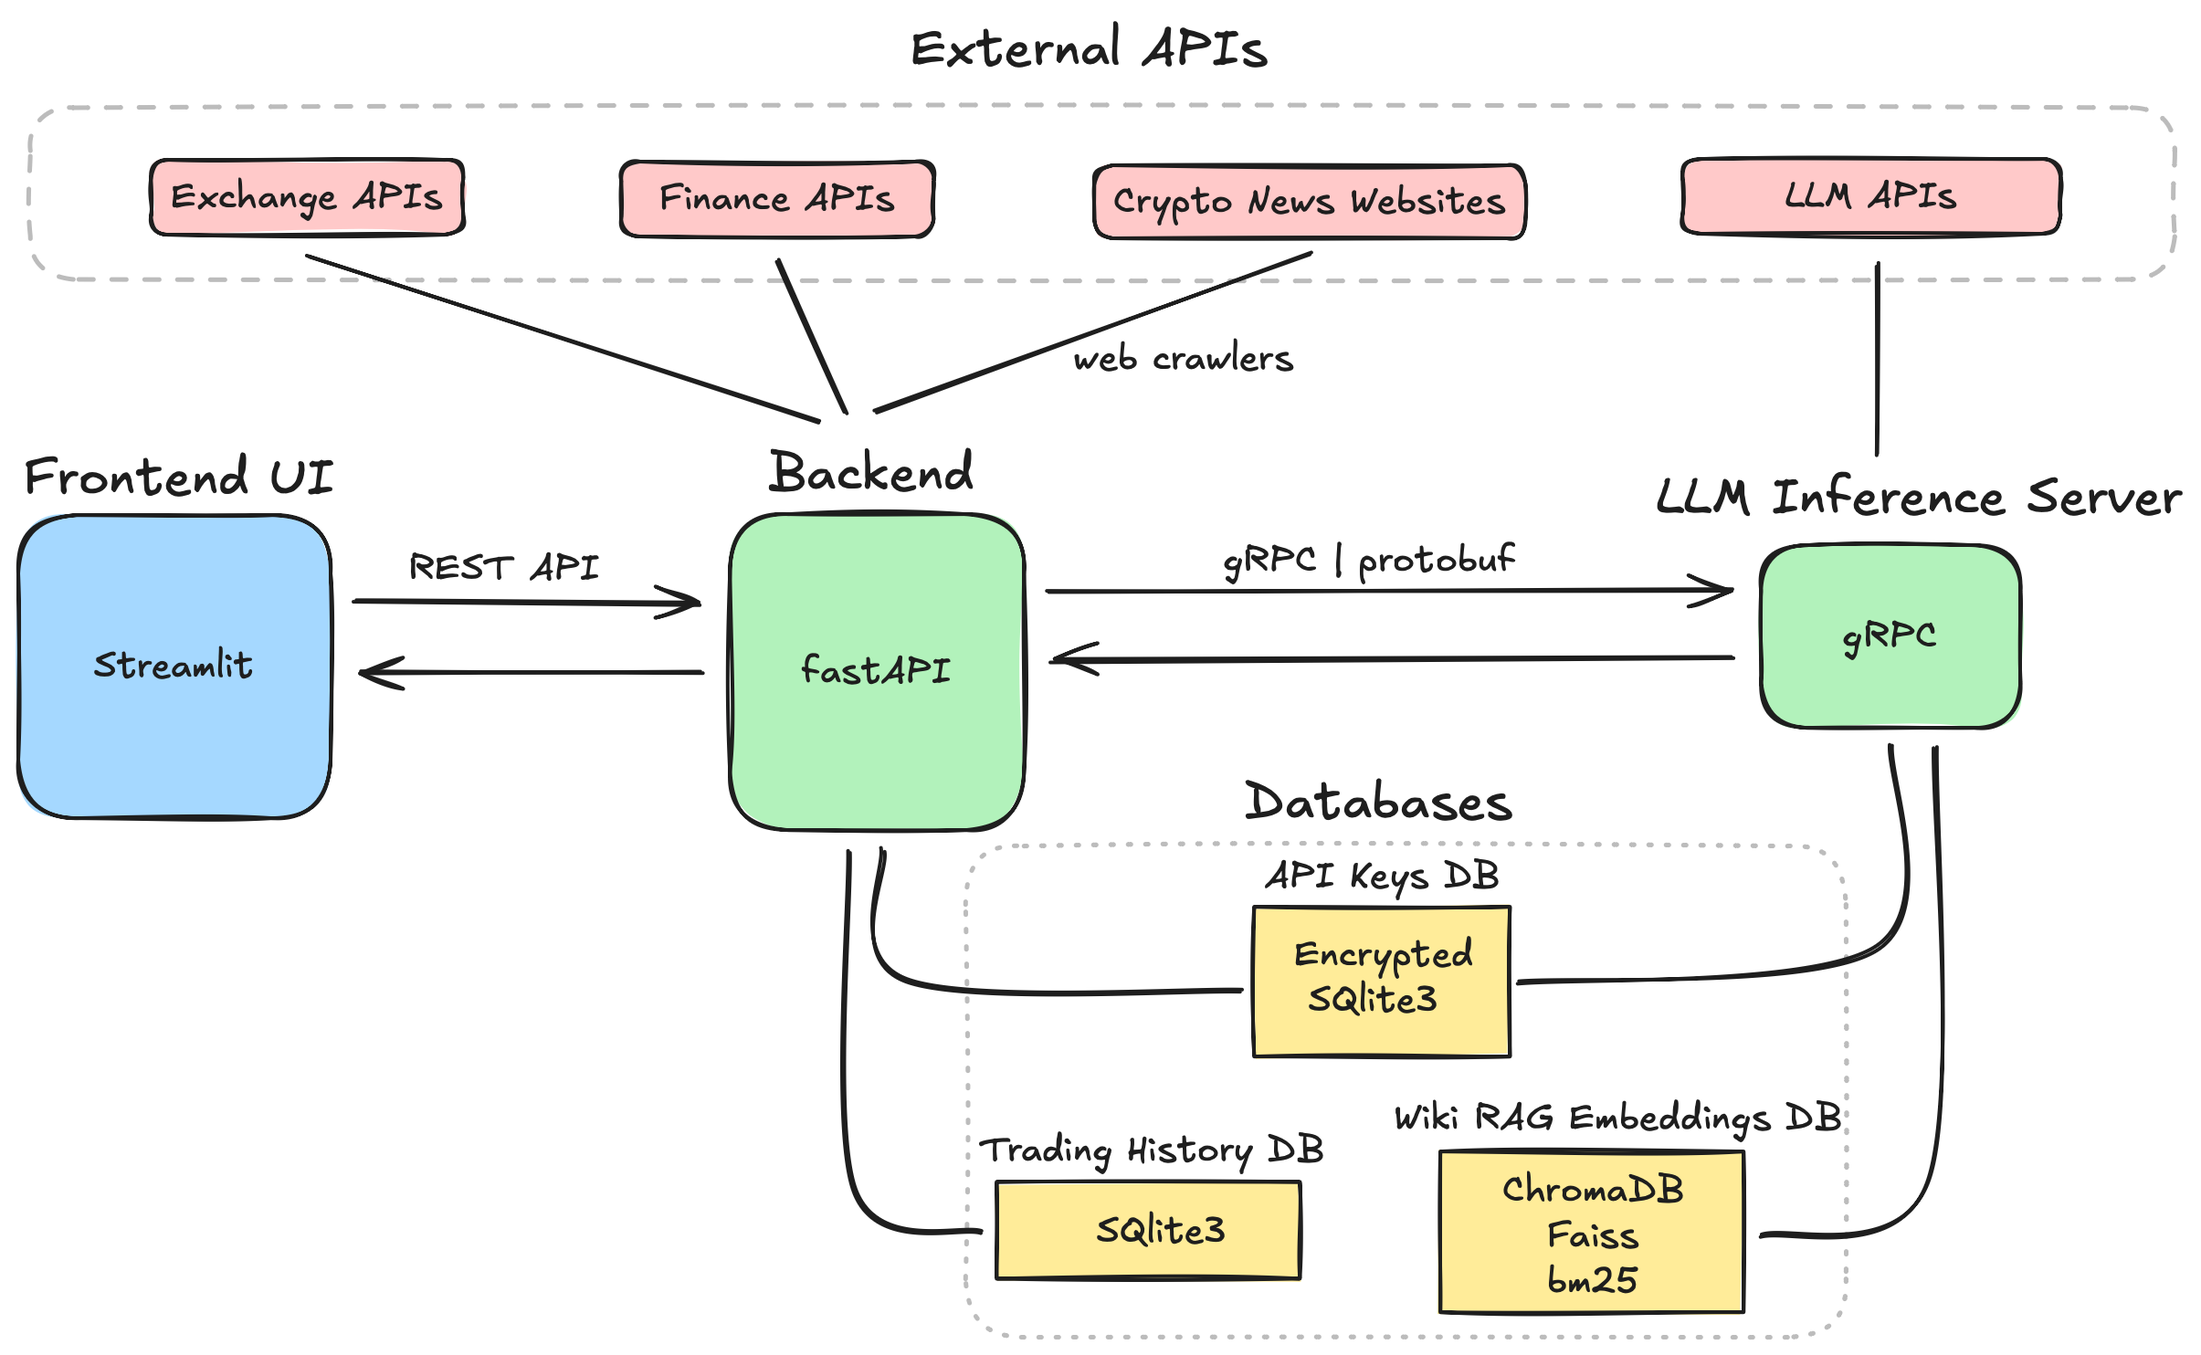
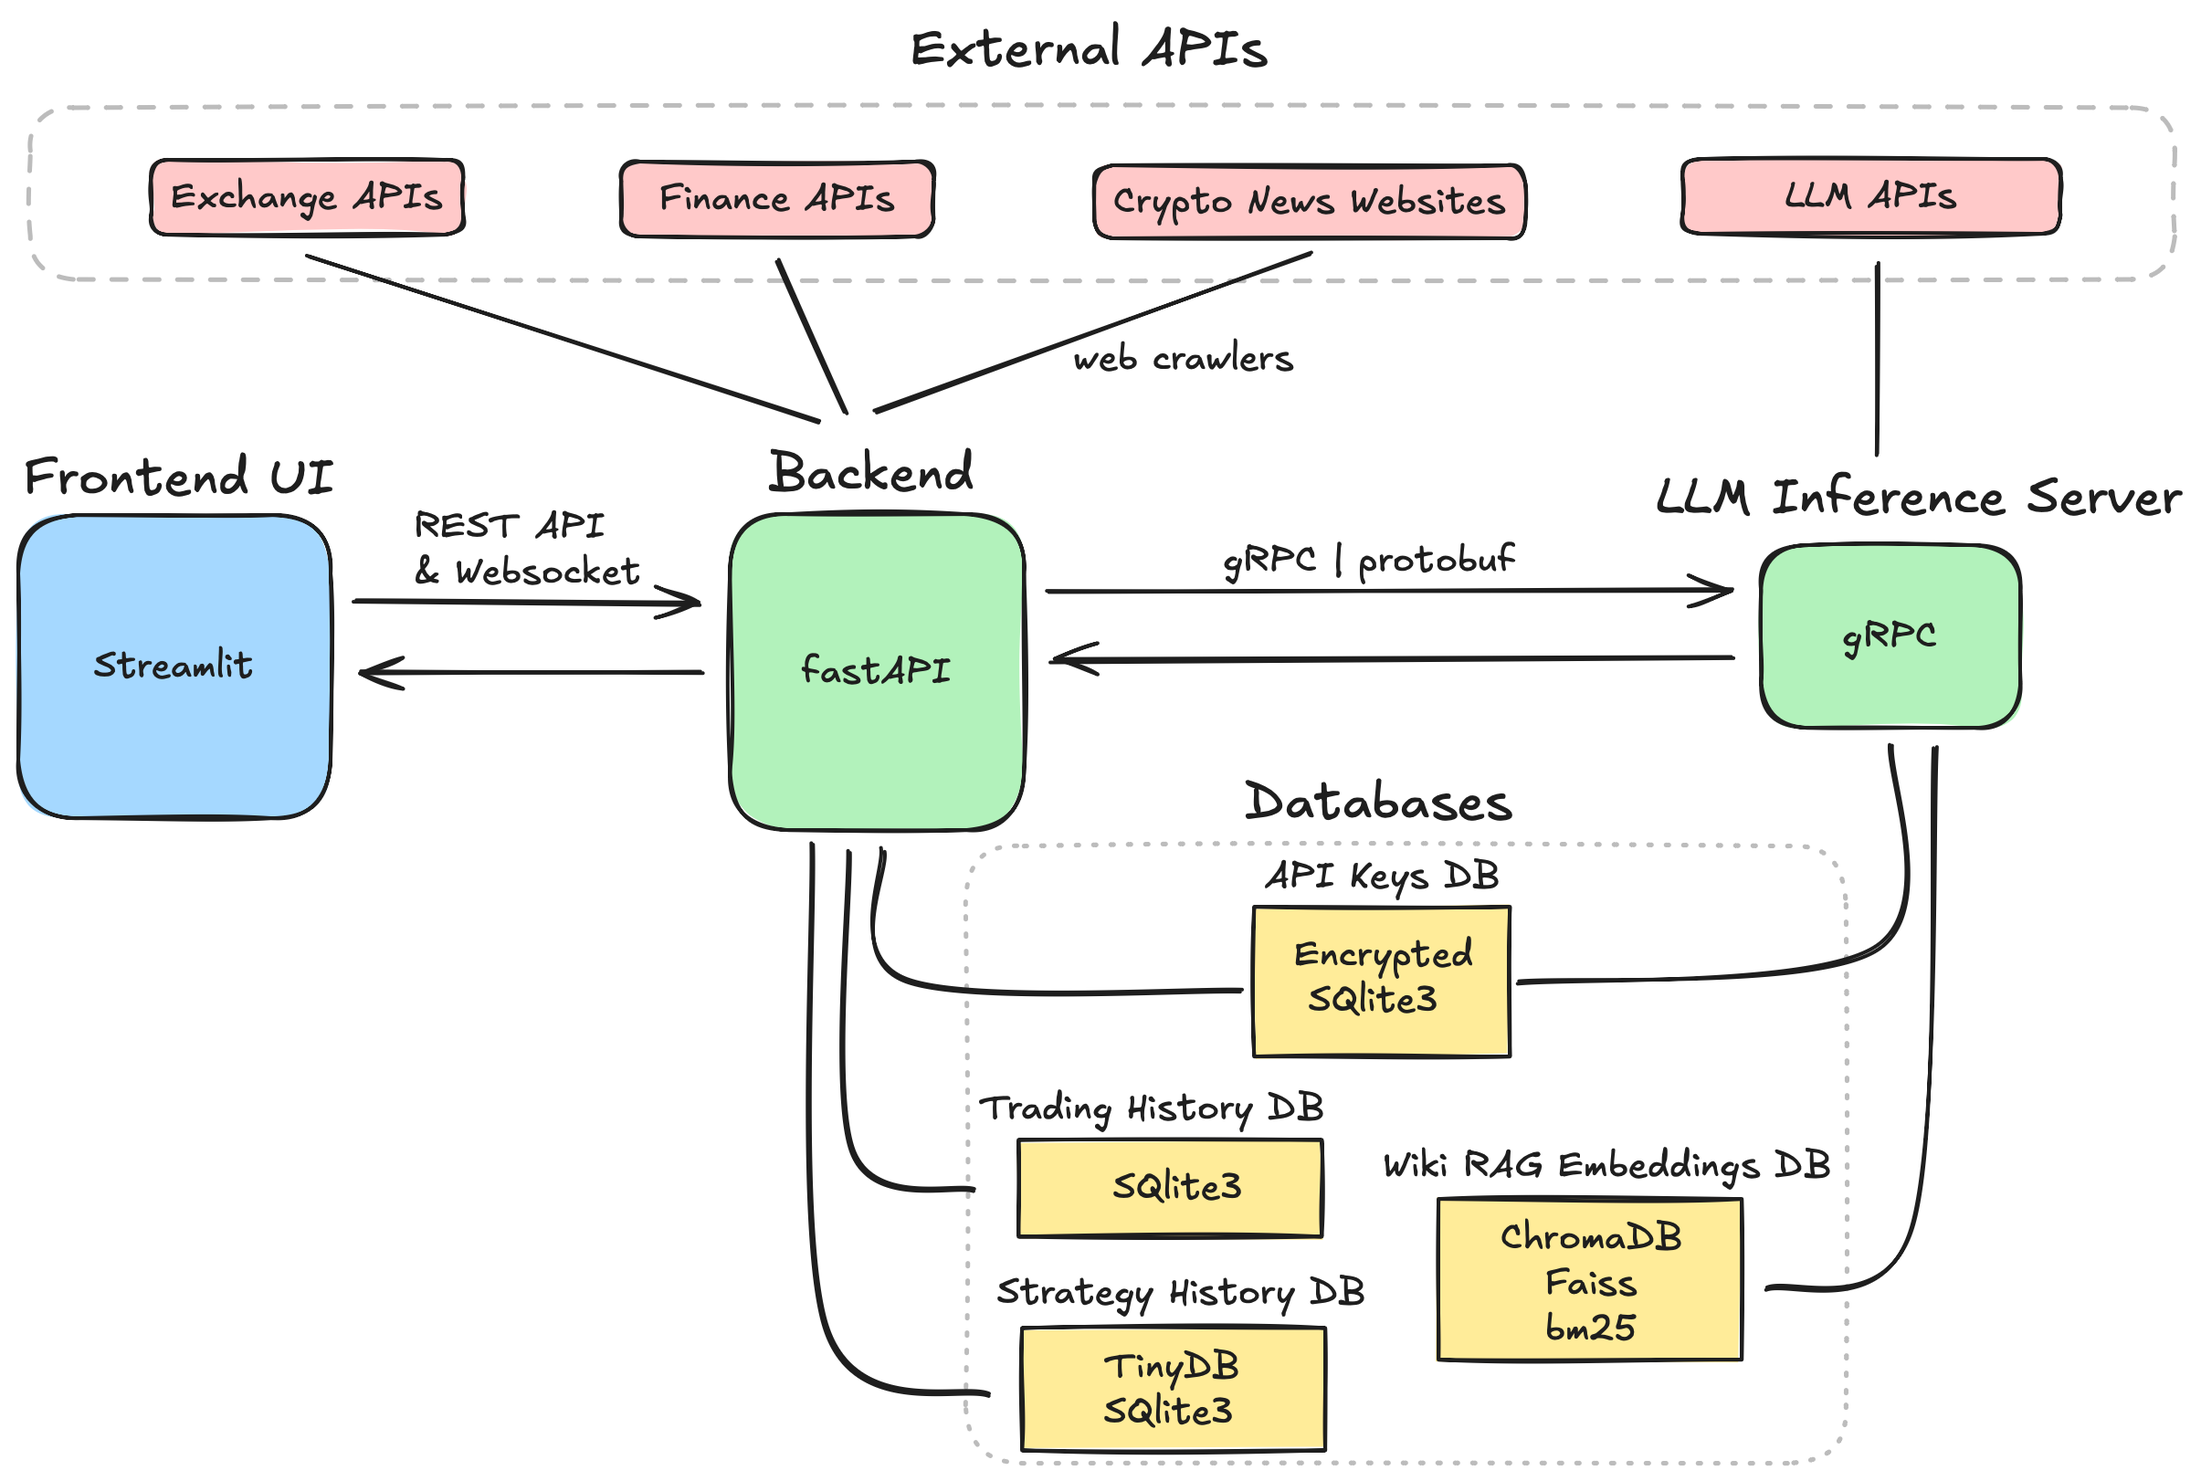
strategy updates, TBD messages [v0.44.40]

diff --git a/frontend/tab_pages/strategy_console.py b/frontend/tab_pages/strategy_console.py
@@ -5,60 +5,87 @@ from frontend.src.library.ui_elements import col_style2
 import pandas as pd
 import matplotlib.pyplot as plt
 import matplotlib.dates as mdates
+from frontend.src.library.strategy_helper.console_helper import real_time_strategy_plot
 
 
 fix_page_layout('strategy monitor')
 set_page_title("Strategy Monitor")
 # st.html(col_style2)
 
+html_content = """
+<div style="text-align: center; color: red; font-weight: bold; font-size: 24px;">
+    <br>
+    UNDER DEVELOPMENT.
+    <br>
+</div>
+"""
+st.html(html_content)
+
 
 strategies = get_strategy_metadata("all")
 if strategies:
 
-    df = pd.DataFrame(strategies)
-    df['created_at'] = pd.to_datetime(df['created_at'], unit='ms')
-    st.dataframe(df, use_container_width=True, hide_index=True)
-
     st.button("Pause Strategy", type="secondary", icon=":material/pause_circle:", disabled=True)
     st.button("Stop Strategy", type="primary", icon=":material/cancel:")
 
-    logs = get_strategy_logs("strategy")
-    logs_df = pd.DataFrame(logs)
-    logs_df['timestamp'] = pd.to_datetime(logs_df['timestamp'], unit='ms')
-    st.dataframe(logs_df, use_container_width=True, hide_index=True)
+    df = pd.DataFrame(strategies)
+    df['created_at'] = pd.to_datetime(df['created_at'], unit='ms')
+
+    df['monitor'] = False
+    df.insert(0, 'monitor', df.pop('monitor'))
+    st.caption("Use the ***search bar*** on the top right of the table to search for specific **keywords**")
+    edited_df = st.data_editor(df, use_container_width=True, hide_index=True, num_rows='fixed')
+    st.info("💡 The **DateTime** above refers to the **UTC** timestamp. So times may be different from your local time.")
+    df_to_show = edited_df.loc[edited_df["monitor"] == True].copy().reset_index(drop=True)
 
 
-    # Plotting
-    fig, ax = plt.subplots(figsize=(10, 6))
+    # st.dataframe(df, use_container_width=True, hide_index=True)
 
-    # Plot the price as a line
-    ax.plot(logs_df['timestamp'], logs_df['price'], label='Price', color='blue')
 
-    # Add markers for BUY and SELL actions
-    for i, row in logs_df.iterrows():
-        if row['order'] == 'BUY':
-            ax.plot(row['timestamp'], row['price'], marker='o', markersize=10, color='green', label='BUY' if i == 0 else "")
-        elif row['order'] == 'SELL':
-            ax.plot(row['timestamp'], row['price'], marker='o', markersize=10, color='red', label='SELL' if i == 0 else "")
+    if df_to_show.shape[0] > 0:
+        st.write(df_to_show["strategy_id"].iloc[0])
+        logs = get_strategy_logs(df_to_show["strategy_id"].iloc[0])
+        logs_df = pd.DataFrame(logs)
+        st.write(logs_df)
+        logs_df['timestamp'] = pd.to_datetime(logs_df['timestamp'], unit='ms')
+        st.dataframe(logs_df, use_container_width=True, hide_index=True)
 
-    # Set labels and title
-    ax.set_xlabel('Timestamp')
-    ax.set_ylabel('Price')
-    ax.set_title('Price vs Timestamp with BUY/SELL orders')
 
-    # Format the x-axis with date
-    ax.xaxis.set_major_locator(mdates.HourLocator(interval=1))
-    ax.xaxis.set_major_formatter(mdates.DateFormatter('%H:%M'))
+        # Plotting
+        fig, ax = plt.subplots(figsize=(10, 6))
 
-    # Rotate x labels for better readability
-    plt.xticks(rotation=45)
+        # Plot the price as a line
+        ax.plot(logs_df['timestamp'], logs_df['price'], label='Price', color='blue')
 
-    # Show legend
-    ax.legend()
+        # Add markers for BUY and SELL actions
+        for i, row in logs_df.iterrows():
+            if row['order'] == 'BUY':
+                ax.plot(row['timestamp'], row['price'], marker='o', markersize=10, color='green', label='BUY' if i == 0 else "")
+            elif row['order'] == 'SELL':
+                ax.plot(row['timestamp'], row['price'], marker='o', markersize=10, color='red', label='SELL' if i == 0 else "")
 
-    # Show the plot in Streamlit
-    st.pyplot(fig)
+        # Set labels and title
+        ax.set_xlabel('Timestamp')
+        ax.set_ylabel('Price')
+        ax.set_title('Price vs Timestamp with BUY/SELL orders')
 
+        # Format the x-axis with date
+        ax.xaxis.set_major_locator(mdates.HourLocator(interval=1))
+        ax.xaxis.set_major_formatter(mdates.DateFormatter('%H:%M'))
+
+        # Rotate x labels for better readability
+        plt.xticks(rotation=45)
+
+        # Show legend
+        ax.legend()
+
+        # Show the plot in Streamlit
+        st.pyplot(fig)
+
+
+    real_time_option = st.toggle("Real Time Monitor", value=False)
+    if real_time_option:
+        real_time_strategy_plot()
 
 else:
     html_content = """

diff --git a/backend/src/broker/tactician/tactician_base.py b/backend/src/broker/tactician/tactician_base.py
@@ -145,15 +145,23 @@ class Tactician:
         Calls the Exchange API to get the latest price data. It fetches :limit: prices on call and initiates the dataset.
         Typically called before starting the strategy loop.
 
+        In case of 6s interval: Most exchanges do not support a 15s interval. Therefore in order to initiate the dataset, the 1s API is used and the data are sampled.
         Args:
             limit (int): The number of prices to fetch.
             interval (str): The klines interval.
         """
-        # Convert to DataFrame
-        data = self.exchange.get_price_history(self.symbol, interval=interval, limit=limit)
-        df = pd.DataFrame(data)
-        df.rename(columns={"open_time": "timestamp", "close_price": "price"}, inplace=True)
-        self.dataset = df
+        # There is no 15s interval in exchange APIs, there
+        if interval == "6s":
+            data = self.exchange.get_price_history(self.symbol, interval="1s", limit=1200)
+            df = pd.DataFrame(data)
+            df.rename(columns={"open_time": "timestamp", "close_price": "price"}, inplace=True)
+            df = df.iloc[::6].reset_index(drop=True)
+            self.dataset = df
+        else:
+            data = self.exchange.get_price_history(self.symbol, interval=interval, limit=limit)
+            df = pd.DataFrame(data)
+            df.rename(columns={"open_time": "timestamp", "close_price": "price"}, inplace=True)
+            self.dataset = df
 
 
     def update_dataset(self) -> None:
@@ -200,23 +208,24 @@ class Tactician:
             time.sleep(interval)  # Wait before checking again
 
 
-    def run_strategy(self, strategy: BaseStrategy, interval: str, min_capital: float, trades_limit: int) -> None:
+    def run_strategy(self, strategy_id: str, strategy: BaseStrategy, interval: str, min_capital: float, trades_limit: int) -> None:
         """
         Initiates the trading loop.
 
         Args:
+            strategy_id (str): The id of the strategy to run.
             strategy (TradingStrategy): The strategy that generates trade signals.
             interval (int): Time interval (in seconds) between checking for new signals. Default is 5.
             min_capital (float): The minimum capital threshold for running the strategy. If capital goes below this, the strategy will stop. Default is 0.
             trades_limit (int): Number of trades to execute before stopping. Must be even to end with a SELL.
         """
-        time_interval_dict = {'1s': 1, '1m': 60, '5m': 300, '15m': 900,
+        time_interval_dict = {'1s': 1, '6s': 6, '1m': 60, '5m': 300, '15m': 900,
                          '30m': 1800, '1h': 3600, '4h': 14400, '12h': 43200, '1d': 86400}
 
 
-        self.db_client.add_strategy("strategy", self.symbol, self.capital, interval, trades_limit, strategy.name, int(time.time()*1000))
+        self.db_client.add_strategy(strategy_id, self.symbol, self.capital, interval, trades_limit, strategy.name, int(time.time()*1000))
 
-        print("Tactician :: Initiating Strategy loop.")
+        print(f"Tactician :: Initiating Strategy loop with id {strategy_id}.")
         self.initiate_dataset(interval, 200)
         self.thread = threading.Thread(target=self.strategy_loop, daemon=True, args=(strategy, time_interval_dict[interval], min_capital, trades_limit))
         self.thread.start()

diff --git a/frontend/tab_pages/strategy.py b/frontend/tab_pages/strategy.py
@@ -6,11 +6,11 @@ from frontend.src.library.strategy_helper.funcs import get_strategy_instructions
 from frontend.src.library.ui_elements import col_style2
 from frontend.src.library.analytics_helper.client import fetch_available_assets
 from frontend.src.library.strategy_helper.client import post_strategy
-import pandas as pd
+import time
 
 
 fix_page_layout('strategy')
-set_page_title("Trading Strategy")
+set_page_title("Trading Strategy Launcher")
 st.html(col_style2)
 
 st.caption("Click the button below 👇👇 to get information on the available strategies.")
@@ -25,10 +25,6 @@ if st.session_state["available_exchange_apis"]:
     exchange = st.selectbox('Choose Exchange', options=st.session_state["available_exchange_apis"])
     st.divider()
     with st.container(border=False):
-
-        # with st.spinner(f"Fetching available {exchange} asset pairs..."):
-        #     asset_list = fetch_available_assets(st.session_state['trade_exchange_api'], quote_asset="all")
-
 
         # show available balance
         c0 = st.columns(1)
@@ -120,13 +116,24 @@ if st.session_state["available_exchange_apis"]:
             st.warning("No **strategy algorithm** provided.", icon=":material/warning:")
             valid_request_flag = False
 
-        backtesting_button = st.button("Run Backtesting", type="primary", icon=":material/query_stats:", disabled=True)
+        # placeholder = st.empty() # TODO - examine here to remove buttons.
+
+        backtesting_button = st.button("Run Backtesting", key="backtesting_button", type="primary", icon=":material/query_stats:", disabled=True)
         # if backtesting_button:
         # post_strategy(exchange, quote_asset, quote_amount, base_asset, time_interval, algorithm, trades_num, strategy_params_dict, True)
 
         if valid_request_flag:
-            if st.button("Initiate Strategy", type="primary", icon=":material/send:"):
-                post_strategy(exchange, quote_asset, quote_amount, base_asset, time_interval, algorithm, trades_num, strategy_params_dict)
+            if st.button("Initiate Strategy", key="deploy_strategy_button", type="primary", icon=":material/rocket_launch:"):
+                with st.spinner("Deploying Strategy"):
+                    res = post_strategy(exchange, quote_asset, quote_amount, base_asset, time_interval, algorithm, trades_num, strategy_params_dict)
+                if res is not None:
+                    st.success("Strategy has been successfully deployed.", icon=":material/rocket_launch:")
+                    st.toast("Strategy has been successfully deployed.", icon="🚀")
+                    st.link_button("Navigate to the **Strategy Console** to view the progress", "http://localhost:8501/strategy_console", icon=":material/browse_activity:")
+                else:
+                    st.error("Failed to deploy strategy. See logs for error.", icon=":material/report:")
+
+
         else:
             st.button("Initiate Strategy", type="primary", icon=":material/send:", disabled=True)
 

diff --git a/backend/src/broker/endpoint.py b/backend/src/broker/endpoint.py
@@ -8,7 +8,7 @@ from backend.src.broker.strategies.strategy_factory import StrategyFactory
 from backend.src.broker.tactician.tactician_base import Tactician
 from database.strategy.strategy_db_client import StrategyDBClient
 from backend.src.broker.tactician.strategy_runtime_manager import StrategyRuntimeHandler
-
+import time
 
 router = APIRouter(
     prefix="/broker",
@@ -132,13 +132,14 @@ def run_strategy(strategy_params: StrategyParams) -> Dict[str, Any]:
         strategy = StrategyFactory.get_strategy(strategy_params.strategy, strategy_params.params)
 
         # Instantiate the Tactician
+        strategy_id = f"strategy_{int(time.time())}"
         symbol = f"{strategy_params.base_asset}{strategy_params.quote_asset}"
         tactician = Tactician(exchange=client, symbol=symbol, capital_allocation=strategy_params.quote_amount)
         # Run the strategy with a n-second interval and stop if capital is less than min_capital
-        tactician.run_strategy(strategy, interval=strategy_params.time_interval, min_capital=0.0, trades_limit=strategy_params.num_trades)
+        tactician.run_strategy(strategy_id, strategy, interval=strategy_params.time_interval, min_capital=0.0, trades_limit=strategy_params.num_trades)
 
-        strategy_runtime_handler.add_strategy("strategy", tactician)
-        return {}
+        strategy_runtime_handler.add_strategy(strategy_id, tactician)
+        return {"status": "success", "strategy_id": strategy_id}
     except Exception as e:
         print(e)
         raise HTTPException(status_code=500, detail=str(e))

diff --git a/frontend/src/library/strategy_helper/console_helper.py b/frontend/src/library/strategy_helper/console_helper.py
@@ -1,0 +1,51 @@
+import streamlit as st
+import time
+import plotly.graph_objs as go
+import numpy as np
+
+
+def get_real_time_data():
+    return np.random.random(), time.time()
+
+
+@st.fragment()
+def real_time_strategy_plot():
+
+    # Function to simulate real-time data (e.g., fetching from an API)
+
+    # Create a placeholder for the Plotly chart
+    st.title('Real-time Data Plot with Plotly')
+    chart = st.empty()
+
+    # Initialize data containers
+    data = []
+    timestamps = []
+
+    # Create the initial plotly figure
+    fig = go.Figure()
+
+    # Add an initial trace to the figure (empty trace to start with)
+    fig.add_trace(go.Scatter(x=[], y=[], mode='lines+markers', name='Real-time Data'))
+
+    # Plot the initial empty figure
+    chart.plotly_chart(fig, use_container_width=True)
+
+    # Real-time update loop
+    for _ in range(100):  # Loop 100 times for simulation
+        # Get new data from your API or data source
+        value, timestamp = get_real_time_data()
+
+        # Append new data
+        data.append(value)
+        timestamps.append(timestamp)
+
+        # Using batch_update to update the figure efficiently
+        with fig.batch_update():
+            fig.data[0].x = timestamps
+            fig.data[0].y = data
+
+        # Update the plot in Streamlit
+        chart.plotly_chart(fig, use_container_width=True)
+
+        # Sleep for the next update (simulating real-time data fetch)
+        time.sleep(1.0)  # Sleep for 300ms between updates

diff --git a/frontend/tab_pages/trading_report.py b/frontend/tab_pages/trading_report.py
@@ -28,10 +28,18 @@ else:
         st.info("💡 The **DateTime** above refers to the **UTC** timestamp. So times may be different from your local time.")
         df_to_plot = edited_df.loc[edited_df["show_plot"] == True].copy().reset_index(drop=True)
         if df_to_plot.shape[0] > 0:
-            with st.spinner("Generating Trade History Plot..."):
-                fig = get_trading_history_line_plot(df_to_plot)
-                if fig is not None:
-                    st.plotly_chart(fig, use_container_width=True, config={'displayModeBar': False})
+            html_content = """
+            <div style="text-align: center; color: red; font-weight: bold; font-size: 18px;">
+                <br>
+                Currently Unavailable.
+                <br>
+            </div>
+            """
+            st.html(html_content)
+            # with st.spinner("Generating Trade History Plot..."):
+            #     fig = get_trading_history_line_plot(df_to_plot)
+            #     if fig is not None:
+            #         st.plotly_chart(fig, use_container_width=True, config={'displayModeBar': False})
     with vs_tab:
         st.html("<h5 style='text-align: left;margin-top:0; padding-top:0;'>Trading History Bar Plot</h5>")
         get_status_barplot(df['Status'])
